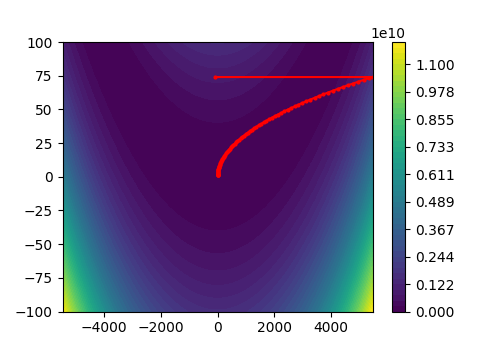
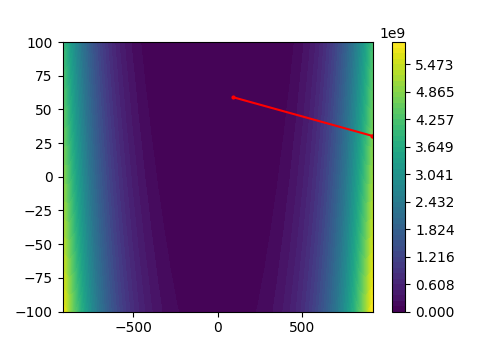
complete non_smooth_function

diff --git a/multivariate_optimization/non_smooth_function/Powells.py b/multivariate_optimization/non_smooth_function/Powells.py
@@ -1,5 +1,5 @@
 import sys
-sys.path.append('/Users/taehyeonkim/Dropbox/2023/Fall/Numerical Optimization/Numerical_Optimization')
+sys.path.append('C:/Users/user/Desktop/Numerical_Optimization')
 
 from univariate_optimization.comparison_optimization_techniques.golden_section import golden_section_search
 from univariate_optimization.comparison_optimization_techniques.seeking_bound import seeking_bound
@@ -32,7 +32,7 @@ def Powells(f, df, initial, dim=2, max_iter=1000, threshold=1e-15):
         p = [x[i]]
         for k in range(0,dim):
             new_f = get_function(f, p[k], u[k])
-            a, b = seeking_bound(new_f, 0.0, 0.1)
+            a, b = seeking_bound(new_f, p[k][0], 0.1)
             results = golden_section_search(new_f, a, b, max_iter=100)
             r1, r2 = results[0][-1], results[1][-1]
             f1, f2 = new_f(r1), new_f(r2)
@@ -47,7 +47,7 @@ def Powells(f, df, initial, dim=2, max_iter=1000, threshold=1e-15):
         u[-1] = [p[-1][0] - p[0][0], p[-1][1] - p[0][1]]
 
         new_f = get_function(f, p[0], u[-1])
-        a, b = seeking_bound(new_f, 0.0, 0.1)
+        a, b = seeking_bound(new_f, p[0][0], 0.1)
         results = golden_section_search(new_f, a,b, max_iter=100)
         r1, r2 = results[0][-1], results[1][-1]
         f1, f2 = new_f(r1), new_f(r2)

diff --git a/multivariate_optimization/test_nsf.py b/multivariate_optimization/test_nsf.py
@@ -1,8 +1,7 @@
 from non_smooth_function.Nelder_Mead import Nelder_Mead
 from non_smooth_function.Powells import Powells
-from visualization import visualization
+from visualization import visualization, problem_visualization
 import random
-import math
 
 def problem1():
     f = lambda x, y: (x+3*y-5)**2 +(3*x+y-7)**2 
@@ -38,6 +37,7 @@ if __name__ == "__main__":
     for number, problem in enumerate(problems):
         print("Problem "+str(number+1))
         f, df = problem
+        problem_visualization(f=f, problem=str(number+1), r=100)
 
         initial_point = []
         for i in range(dim + 1):
@@ -46,5 +46,3 @@ if __name__ == "__main__":
         visualization(f=f, results=results, problem=str(number+1), type='nelder_mead', r=100)
         results = Powells(f=f, df=df, initial=(initial_point[0][0], initial_point[0][1]), dim=dim)
         visualization(f=f, results=results, problem=str(number+1), type='powells', r=100)
-
-    n=1

diff --git a/multivariate_optimization/visualization.py b/multivariate_optimization/visualization.py
@@ -30,3 +30,21 @@ def visualization(f, results, problem='1', type='nelder_mead', r=10):
     plt.plot(point_x, point_y, marker='o', markersize=2, color='r')
     plt.savefig('multivariate_optimization/results/' + type + 'problem' + problem + '.png')
     plt.cla()
+
+def problem_visualization(f, problem='1', r=10):
+    x = np.linspace(-r, r, 50)
+    y = np.linspace(-r, r, 50)
+
+    z = np.zeros((len(x), len(y)))
+    
+    for i in range(50):
+        for j in range(50):
+            z[i,j] = f(x[i], y[j])
+
+    xx, yy = np.meshgrid(x, y)
+
+    plt.figure(figsize=(5, 3.5))
+    cp = plt.contourf(xx, yy, z, levels = np.linspace(z.reshape(-1, 1).min(), z.reshape(-1, 1).max(), 50))
+    plt.colorbar(cp)
+    plt.savefig('multivariate_optimization/results/' + 'problem' + problem + '.png')
+    plt.cla()

diff --git a/README.md b/README.md
@@ -14,3 +14,4 @@ Here's various optimization techniques from univariate to multivariate problems,
 
 * Multivariate Optimization([code](https://github.com/rlax59us/Numerical_Optimization/tree/main/multivariate_optimization))
     * Non-Smooth Function (Nelder-Mead method, Powell's method)
+    * Gradient-based Method (Steepest Descent, Newton's mehtod, Two Quasi Newton's method)
